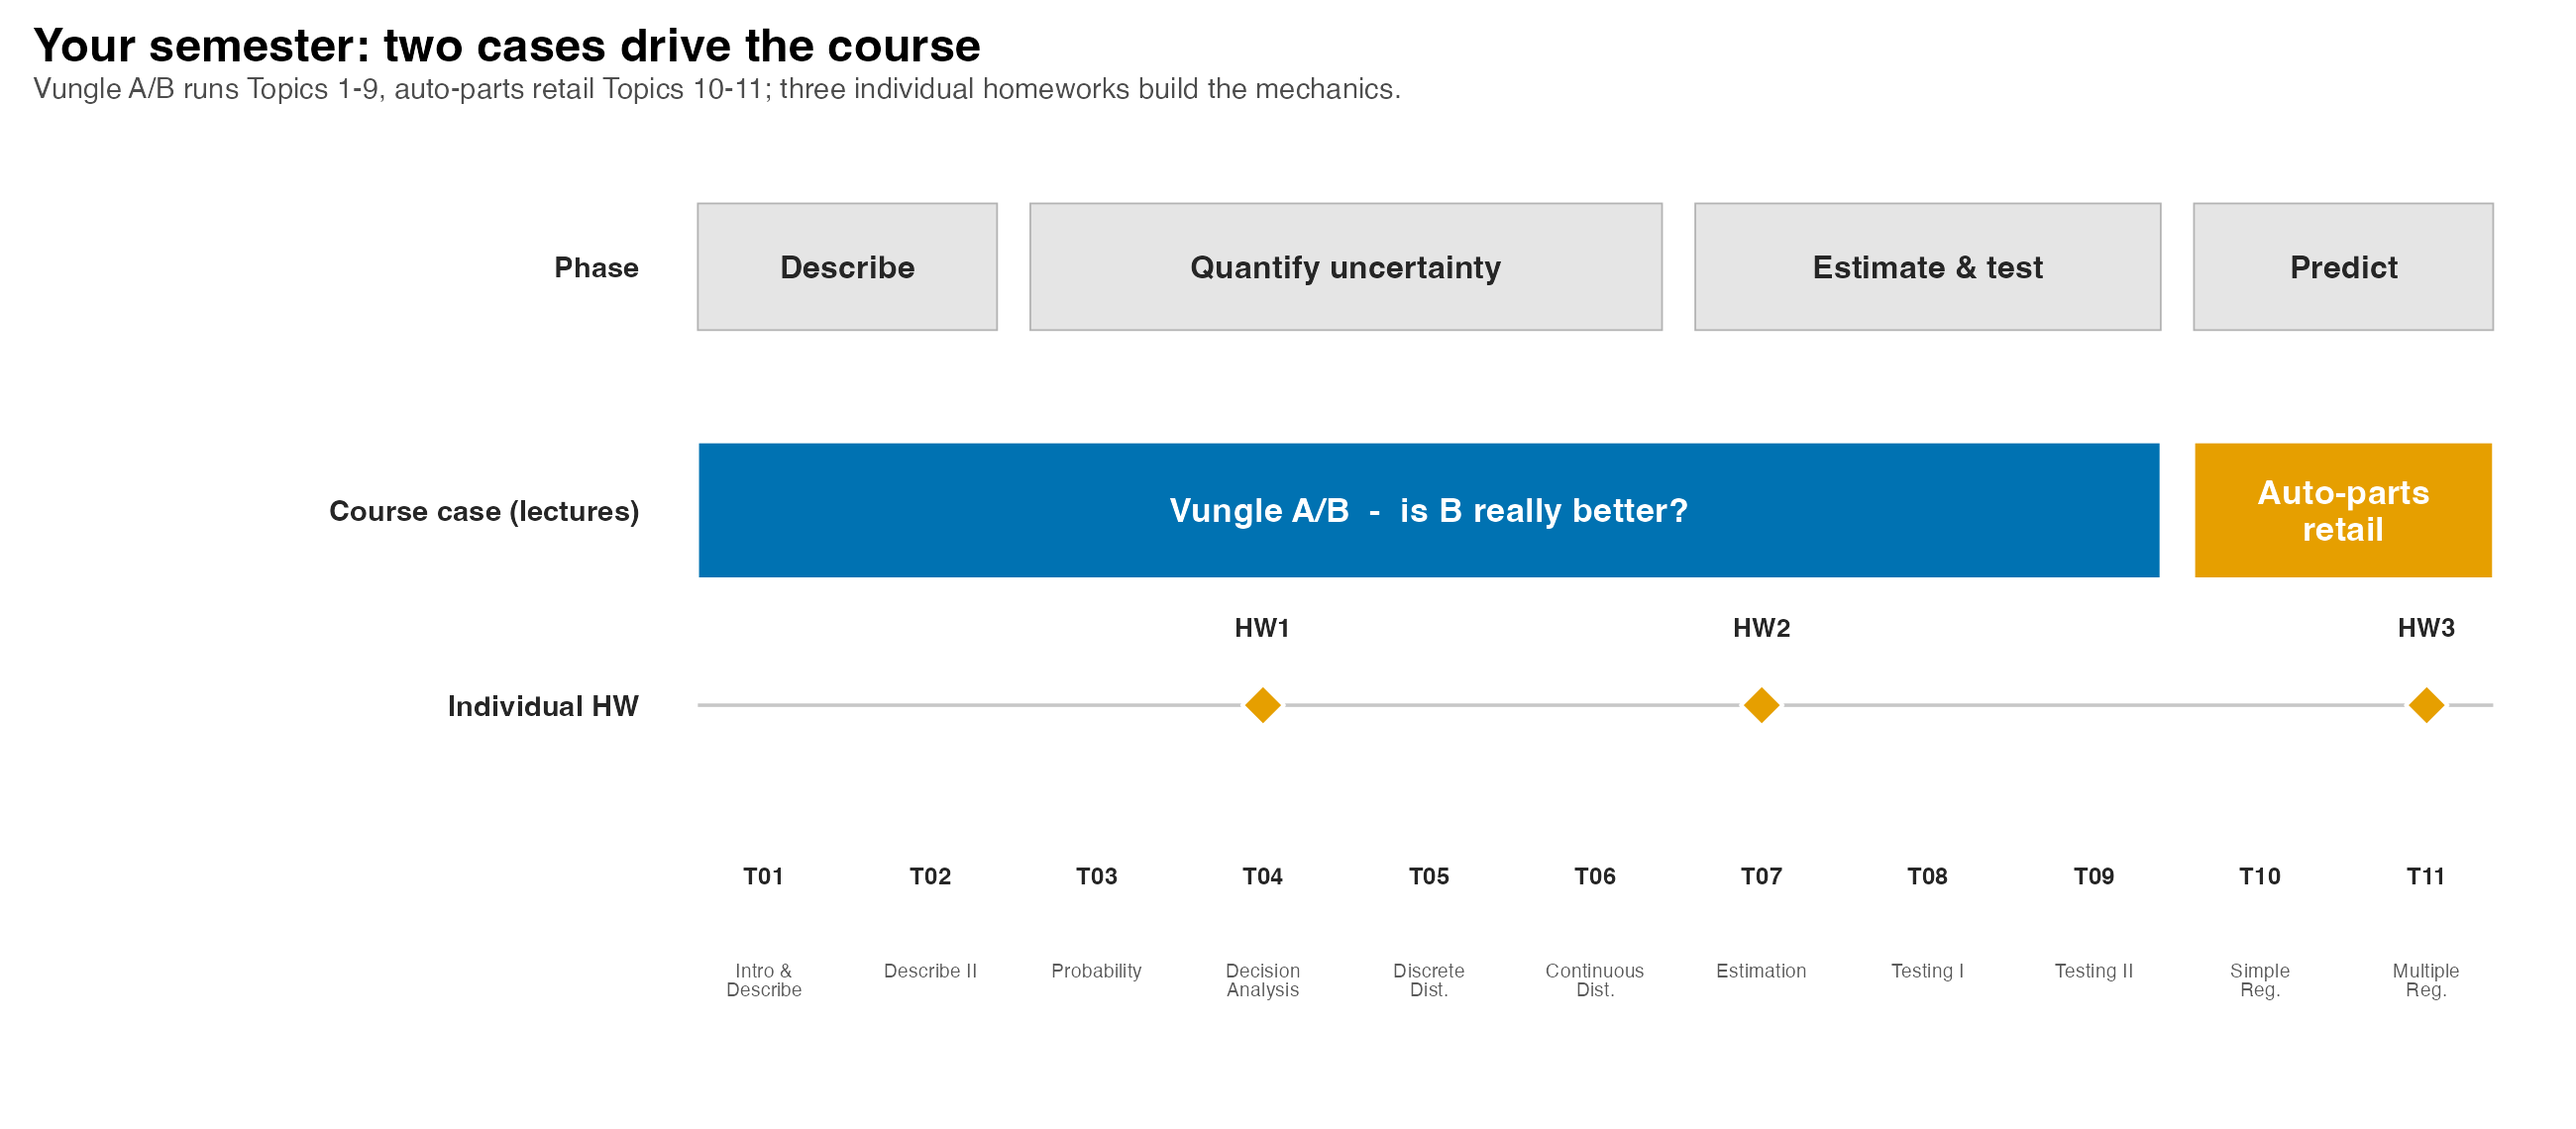
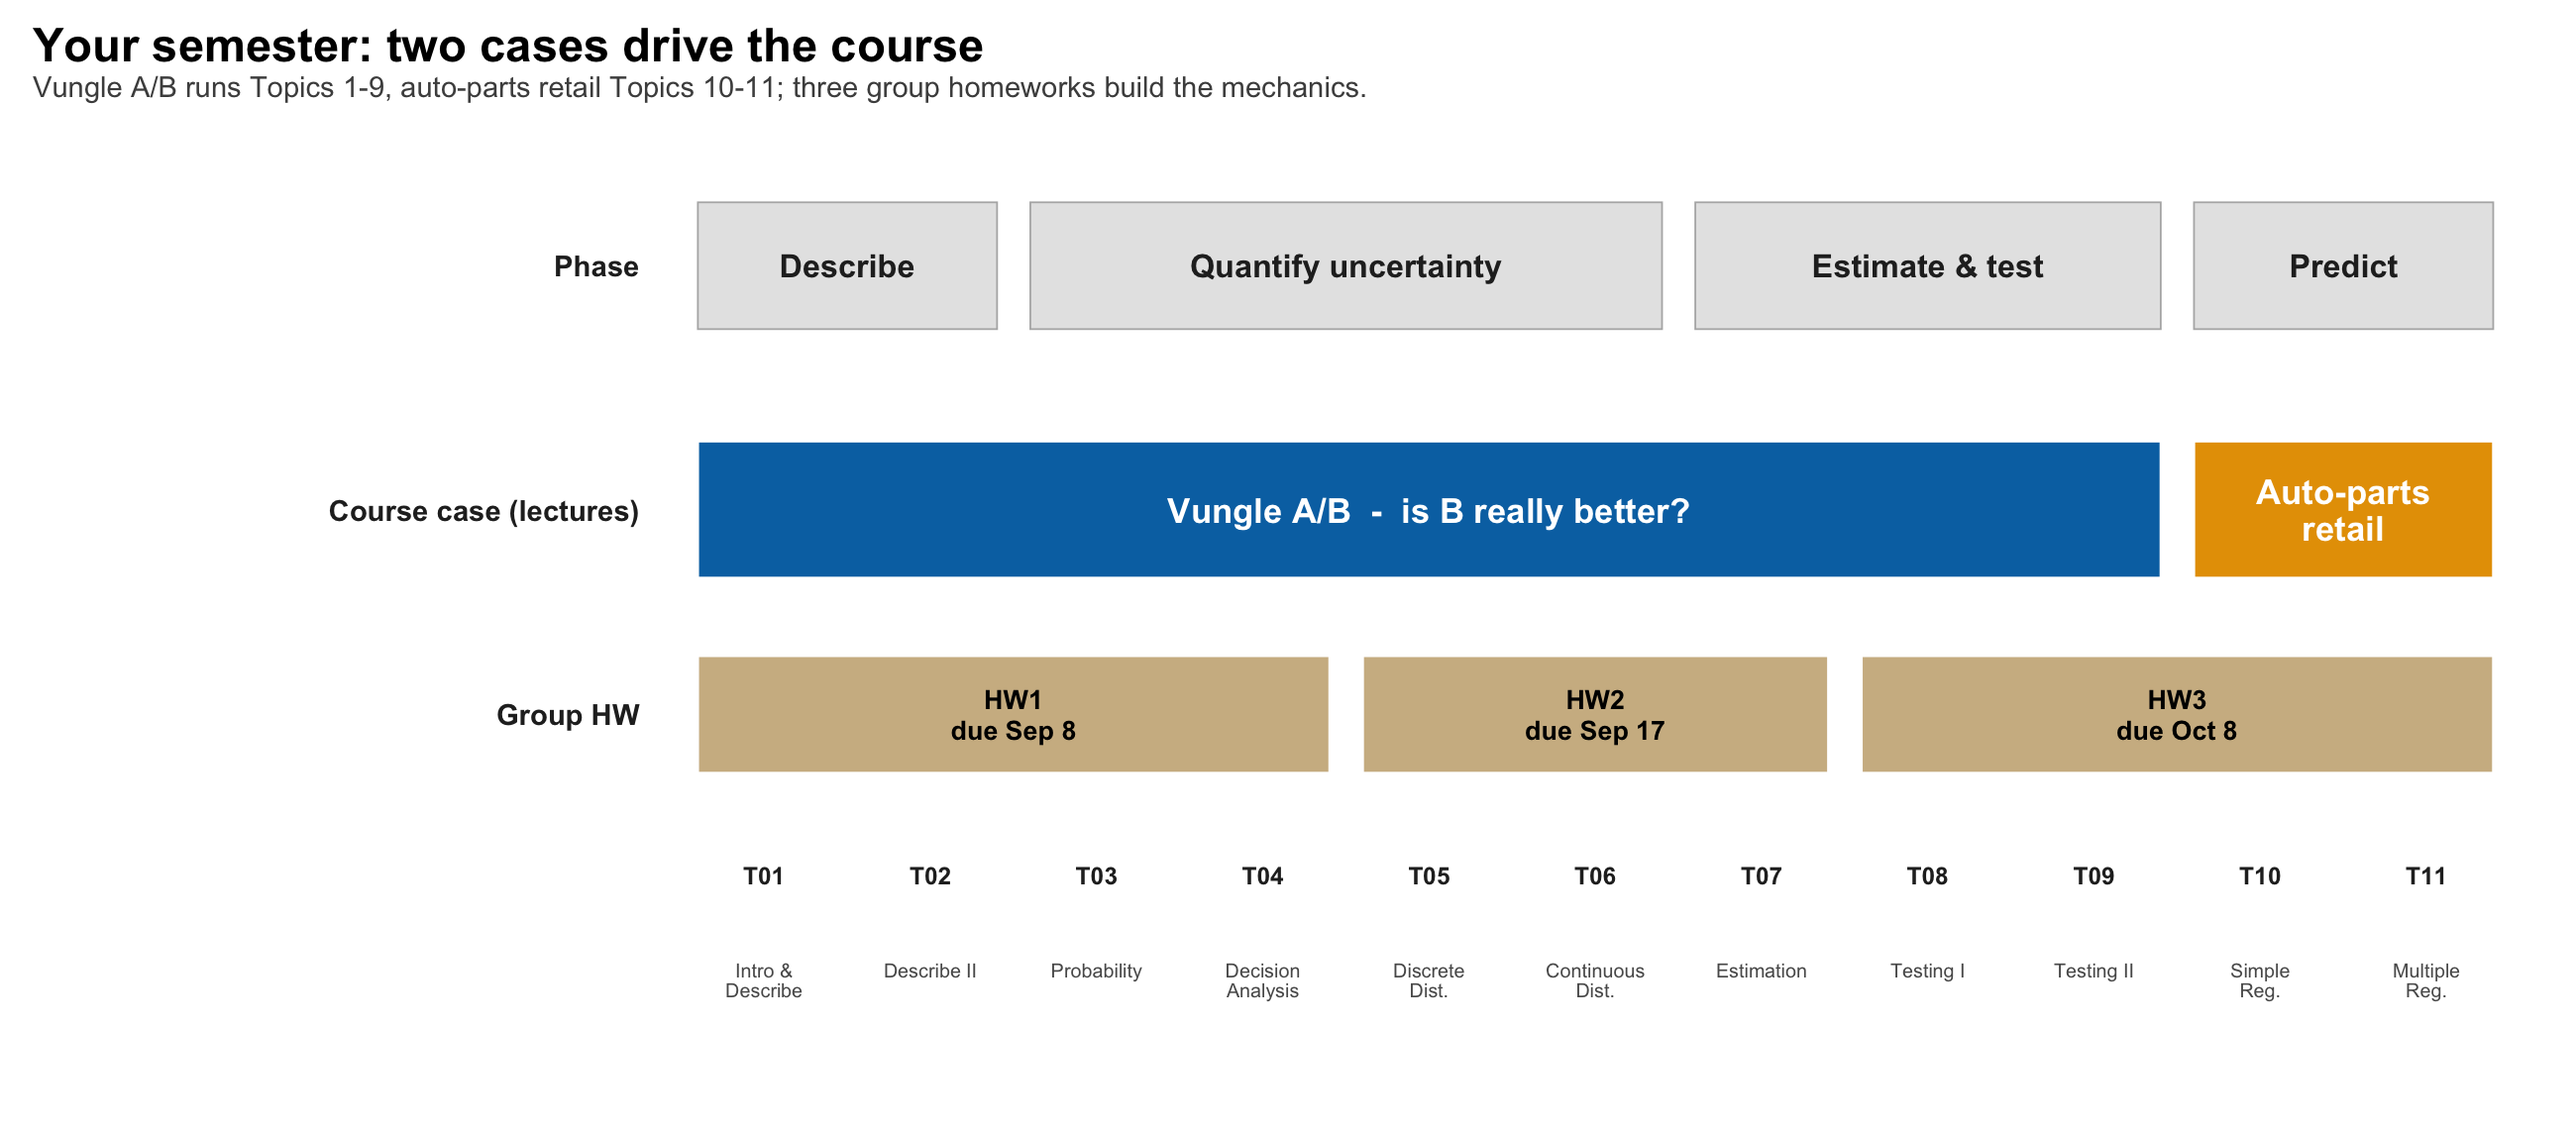
T01: Thanh leads the intro, drop the course-webpage pointer, fix the roadmap HW lane
Three changes Davi asked for, plus two stale claims they surfaced.

1. Thanh presents first. The title slide credits "Thanh Nguyen / Davi Moreira",
   and the two instructor slides are swapped so Thanh's leads. The Passions
   slides still follow Davi's.

2. No course webpage on the slides. The logistics slide no longer names or links
   the public site; Brightspace is stated as the single channel and now carries
   the syllabus, schedule, slides and datasets the webpage bullet used to list.
   The two personal homepages on the instructor slides stay: they are ours, not
   the course site.

3. The Roadmap figure was stale two ways, not one. It said "Individual HW" and
   "three individual homeworks" even though homework became GROUP work; and its
   three diamonds sat on T04/T07/T11, which are where each set's COVERAGE closes,
   so a student read them as due dates. Each homework is now a bar spanning the
   topics it covers, carrying its real deadline: HW1 T01-T04 due Sep 8, HW2
   T05-T07 due Sep 17, HW3 T08-T11 due Oct 8.

Also fixed two leftovers from the individual-to-group homework change: the
"How to Succeed" slide told students to do homework on their own, and the
logistics bullet said "three homeworks" rather than group homeworks.

Verified on the rendered deck: order is Thanh (5) then Davi (6), the course-repo
URL is gone, and slides 11 and 17 fit with no overflow in the handout capture.
[…]

diff --git a/docs/lecture_slides/01_chapter_data_statistics/01_chapter_data_statistics.html b/docs/lecture_slides/01_chapter_data_statistics/01_chapter_data_statistics.html
@@ -9,7 +9,7 @@
 <link href="../../site_libs/quarto-html/quarto-syntax-highlighting-7f8f88aac4f3542376d5c11b86a4c14d.css" rel="stylesheet" id="quarto-text-highlighting-styles"><meta charset="utf-8">
   <meta name="generator" content="quarto-1.9.37">
 
-  <meta name="author" content="Professors Davi Moreira Thanh Nguyen ">
+  <meta name="author" content="Professors Thanh Nguyen Davi Moreira ">
   <title>QM 67000: Business Analytics –  QM 67000: Business Analytics </title>
   <meta name="apple-mobile-web-app-capable" content="yes">
   <meta name="apple-mobile-web-app-status-bar-style" content="black-translucent">
@@ -138,7 +138,7 @@
 <div class="quarto-title-authors">
 <div class="quarto-title-author">
 <div class="quarto-title-author-name">
-Professors<br>Davi Moreira<br>Thanh Nguyen<br> 
+Professors<br>Thanh Nguyen<br>Davi Moreira<br> 
 </div>
 </div>
 </div>
@@ -174,35 +174,6 @@ Professors<br>Davi Moreira<br>Thanh Nguyen<br>
 <h1>Introductions</h1>
 
 </section>
-<section id="instructor-davi-moreira" class="slide level2 center">
-<h2>Instructor: Davi Moreira</h2>
-<div class="columns">
-<div class="column" style="width: 40%; text-align: center; justify-content: center; align-items: center;">
-<div class="cell" data-layout-align="center">
-<div class="cell-output-display">
-<div class="quarto-figure quarto-figure-center">
-<figure>
-<p><img data-src="figs/davi_moreira_photo.JPG" class="quarto-figure quarto-figure-center" style="width:60.0%"></p>
-</figure>
-</div>
-</div>
-</div>
-<p><a href="mailto:dcordeir@purdue.edu">dcordeir@purdue.edu</a></p>
-<p><a href="https://davi-moreira.github.io/" class="uri">https://davi-moreira.github.io/</a></p>
-</div><div class="column" style="width: 60%; text-align: center; justify-content: center; align-items: center;">
-<ul>
-<li class="fragment">Clinical Assistant Professor in the Management Department at Purdue University;</li>
-</ul>
-<p><br></p>
-<ul>
-<li class="fragment">My academic work addresses Political Communication, Data Science, Text as Data, Artificial Intelligence, and Comparative Politics.</li>
-</ul>
-<p><br></p>
-<ul>
-<li class="fragment"><a href="https://blogs.worldbank.org/opendata/improving-how-we-measure-progress-community-biodiversity-conservation-projects-mozambique">M&amp;E Specialist consultant - World Bank (Brazil, Mozambique, Angola, and DRC)</a></li>
-</ul>
-</div></div>
-</section>
 <section id="instructor-thanh-nguyen" class="slide level2 center">
 <h2>Instructor: Thanh Nguyen</h2>
 <div class="columns">
@@ -229,6 +200,35 @@ Professors<br>Davi Moreira<br>Thanh Nguyen<br>
 <p><br></p>
 <ul>
 <li class="fragment">Ph.D.&nbsp;from Cornell University. He teaches QM 67000 and co-developed this course material.</li>
+</ul>
+</div></div>
+</section>
+<section id="instructor-davi-moreira" class="slide level2 center">
+<h2>Instructor: Davi Moreira</h2>
+<div class="columns">
+<div class="column" style="width: 40%; text-align: center; justify-content: center; align-items: center;">
+<div class="cell" data-layout-align="center">
+<div class="cell-output-display">
+<div class="quarto-figure quarto-figure-center">
+<figure>
+<p><img data-src="figs/davi_moreira_photo.JPG" class="quarto-figure quarto-figure-center" style="width:60.0%"></p>
+</figure>
+</div>
+</div>
+</div>
+<p><a href="mailto:dcordeir@purdue.edu">dcordeir@purdue.edu</a></p>
+<p><a href="https://davi-moreira.github.io/" class="uri">https://davi-moreira.github.io/</a></p>
+</div><div class="column" style="width: 60%; text-align: center; justify-content: center; align-items: center;">
+<ul>
+<li class="fragment">Clinical Assistant Professor in the Management Department at Purdue University;</li>
+</ul>
+<p><br></p>
+<ul>
+<li class="fragment">My academic work addresses Political Communication, Data Science, Text as Data, Artificial Intelligence, and Comparative Politics.</li>
+</ul>
+<p><br></p>
+<ul>
+<li class="fragment"><a href="https://blogs.worldbank.org/opendata/improving-how-we-measure-progress-community-biodiversity-conservation-projects-mozambique">M&amp;E Specialist consultant - World Bank (Brazil, Mozambique, Angola, and DRC)</a></li>
 </ul>
 </div></div>
 </section>
@@ -286,8 +286,8 @@ Professors<br>Davi Moreira<br>Thanh Nguyen<br>
 <section id="course-overview-and-logistics-1" class="slide level2 center">
 <h2>Course Overview and Logistics</h2>
 <ul>
-<li><p><strong>Course webpage</strong> (<a href="https://davi-moreira.github.io/2026F_business_analytics_qm670" target="_blank">link</a>): the <strong>syllabus</strong>, the <strong>schedule</strong>, every topic’s <strong>slides</strong>, and the <strong>datasets</strong> to download.</p></li>
-<li><p><strong>Brightspace</strong> (your official channel): announcements, your <strong>group</strong>, the <strong>in-class group cases</strong>, the <strong>three homeworks</strong>, the exams, and your grades.</p></li>
+<li><p><strong>Brightspace is your one channel.</strong> The <strong>syllabus</strong> and <strong>schedule</strong>, every topic’s <strong>slides</strong>, the <strong>datasets</strong> to download, announcements, your <strong>group</strong>, the <strong>in-class group cases</strong>, the <strong>three group homeworks</strong>, the exams, and your grades all live there.</p></li>
+<li><p>Nothing you need for this course is anywhere else: if you cannot find it on Brightspace, email us.</p></li>
 <li><p><strong>Excel + the Analysis ToolPak:</strong> install it this week; we use it every class.</p></li>
 <li><p><strong>iClicker</strong> for attendance.</p></li>
 </ul>
@@ -321,7 +321,7 @@ Professors<br>Davi Moreira<br>Thanh Nguyen<br>
 <p><br></p>
 <ul>
 <li class="fragment"><p><strong>Keep up every week.</strong> Statistics builds on itself: today’s vocabulary becomes next week’s formulas. Falling behind compounds.</p></li>
-<li class="fragment"><p><strong>Work with your group.</strong> In-class cases are solved and submitted together; homework you do on your own. Explaining a method to a groupmate is the fastest way to learn it.</p></li>
+<li class="fragment"><p><strong>Work with your group.</strong> In-class cases and the three homeworks are both solved and submitted together, one file per group. Explaining a method to a groupmate is the fastest way to learn it.</p></li>
 <li class="fragment"><p><strong>You’re the decision-maker.</strong> Every method we learn answers a call <em>you</em> have to make. Learn each one well enough to check an analyst’s work, and always ask: <em>what decision does this number support, and would I stake money on it?</em></p></li>
 <li class="fragment"><p><strong>Use Excel from day one.</strong> Install the Analysis ToolPak this week and open the course dataset; you will use it all semester.</p></li>
 </ul>
